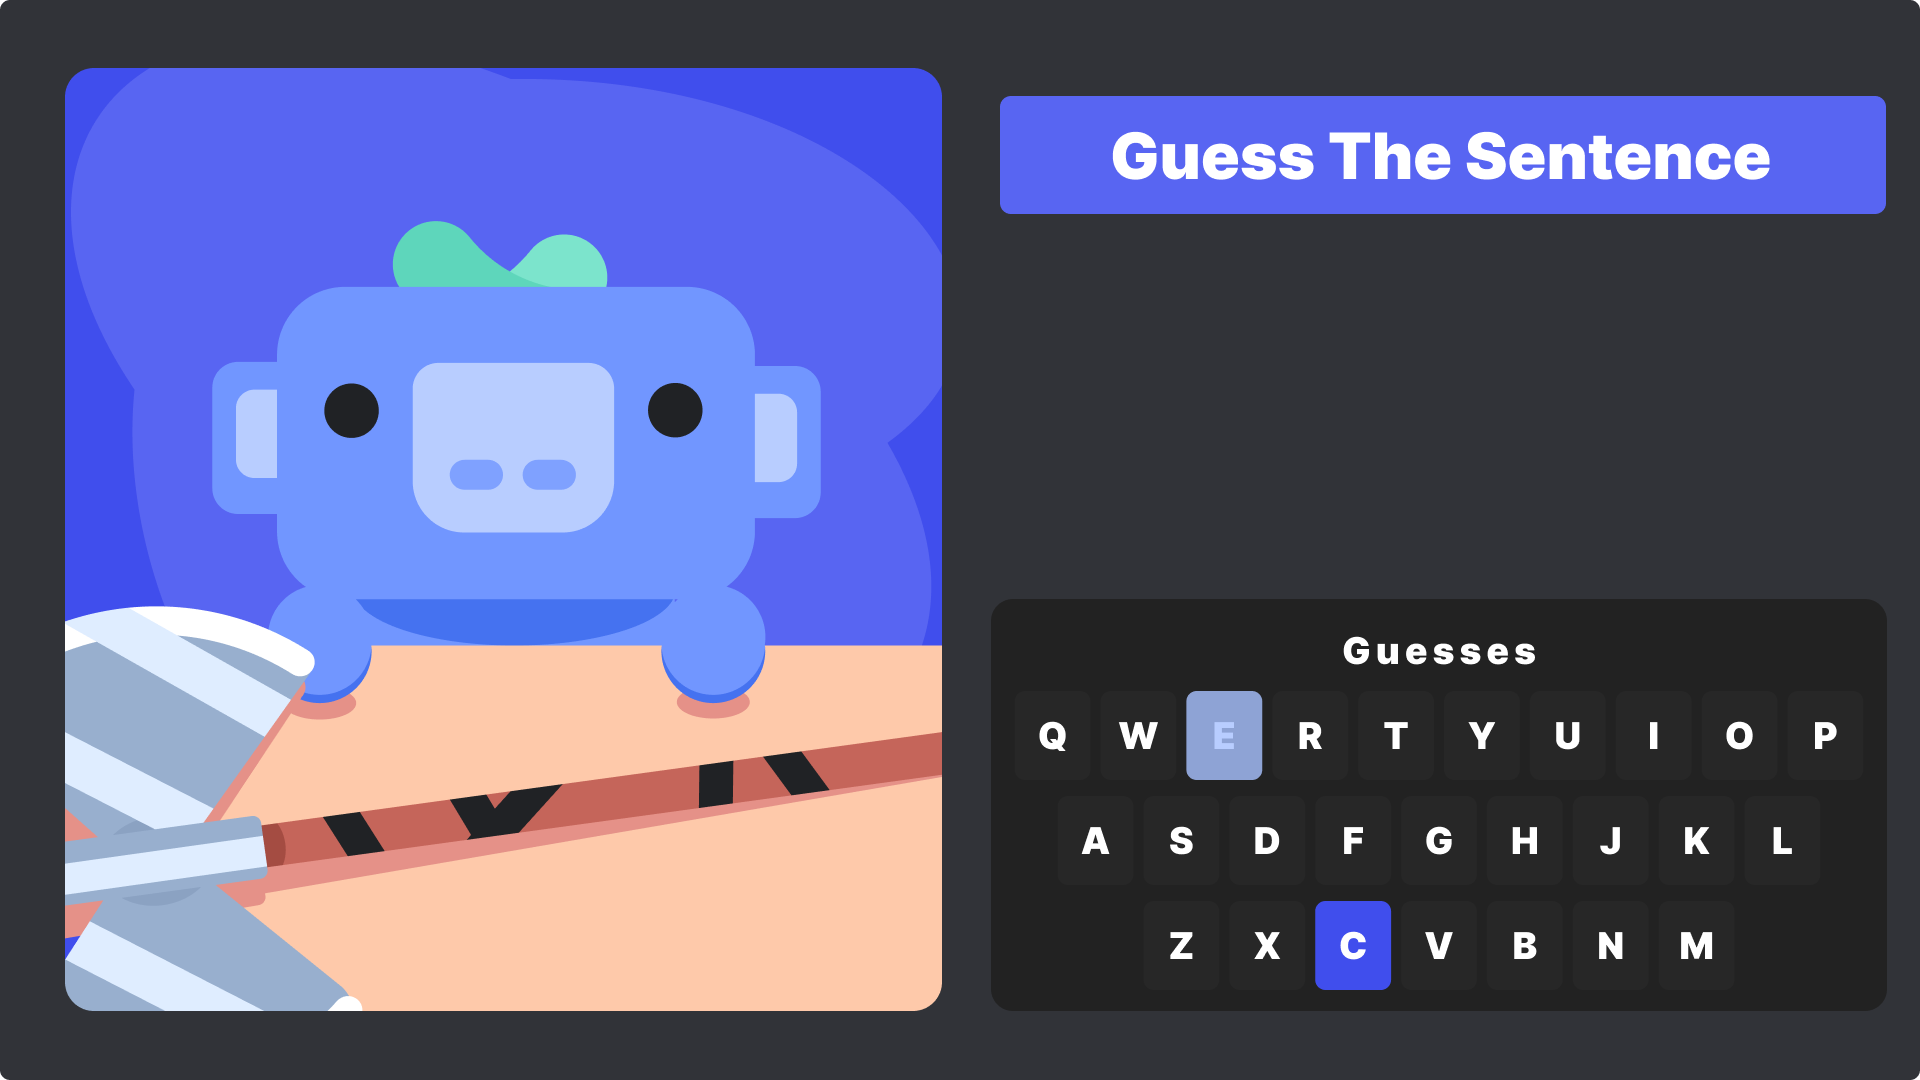
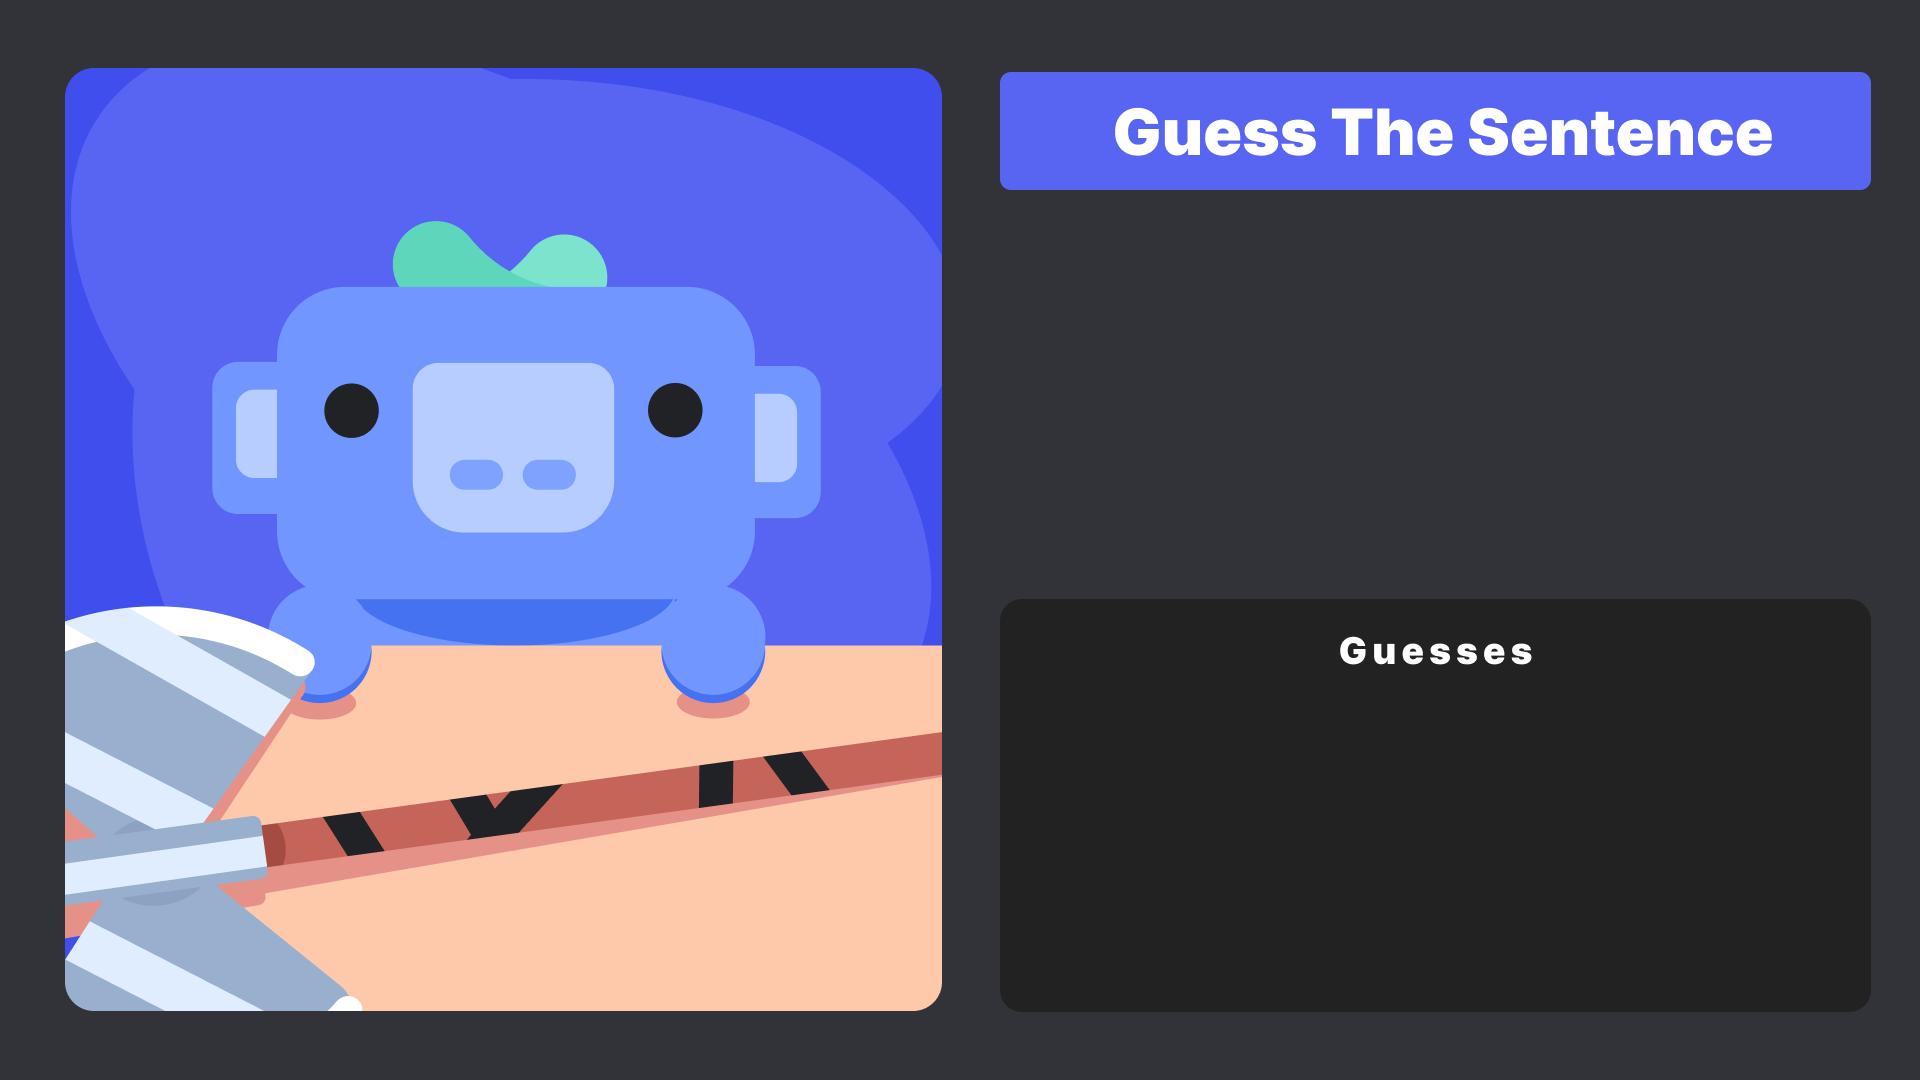
feat: add functionality for drawKeyboard. Updated phase 0 background image

diff --git a/src/utils/drawKeyBoard.ts b/src/utils/drawKeyBoard.ts
@@ -1,3 +1,90 @@
-export default function drawKeyBoard(right: string[], wrong: string[]){
+import Canvas from '@napi-rs/canvas'
 
+const KEY_ASPECT_RATIO = 90/76
+const MAX_KEYS_PER_ROW = 10
+const ROWS = [
+    'QWERTYUIOP',
+    'ASDFGHJKL',
+    'ZXCVVBNM'
+]
+const GAP = 10 //Pixels
+
+
+const NEUTRAL_COLOR_PALETTE = {color:"white", background: "#272727"}
+const RIGHT_COLOR_PALETTE = {color:"white", background: "#404EED"}
+const WRONG_COLOR_PALETTE = {color:"#B8CDFF", background: "#8EA3D5"}
+
+export default function drawKeyBoard(context: Canvas.SKRSContext2D, right: string[], wrong: string[], x: number, y: number, width: number, height: number){
+
+
+    const key_width = (width - GAP * (MAX_KEYS_PER_ROW - 1))/MAX_KEYS_PER_ROW
+    const key_height = key_width * KEY_ASPECT_RATIO
+
+    //Draw Rows
+    for (let i = 0; i < ROWS.length; i++){
+        const row_chars = ROWS[i].split('') 
+        const x_offset = (width - (row_chars.length * (key_width + GAP) - GAP))/2
+        for (let j = 0; j < row_chars.length; j++){
+            const char = row_chars[j]
+            const key_x = x + x_offset + (key_width + GAP) * j
+            const key_y = y + (key_height + GAP) * i
+
+            let palette = NEUTRAL_COLOR_PALETTE
+            if (right.includes(char)) palette = RIGHT_COLOR_PALETTE
+            if (wrong.includes(char)) palette = WRONG_COLOR_PALETTE
+            drawKey(context, char,key_x,key_y,key_width,key_height,palette.color,palette.background)
+        }
+    }
+
+
+}
+
+
+
+
+
+const RECT_RADIUS = 10
+const FONT_SCALE = 0.4
+
+function drawKey(context: Canvas.SKRSContext2D, char: string, x: number, y: number, width: number, height: number, color: string, background: string){
+
+    //Draw Background Rectangle
+    const radius = RECT_RADIUS
+    
+    // -> Middle
+    context.fillStyle = background
+    context.fillRect(x + radius, y+ radius, width - radius * 2, height - radius * 2)
+    
+    // -> Top-Left Corner 
+    fillCircle(context,x + radius, y + radius, radius)
+
+    // -> Top-Right Corner 
+    fillCircle(context,x + width - radius, y + radius, radius)
+
+    // -> Bottom-Right Corner 
+    fillCircle(context,x + width - radius, y + height - radius, radius)
+
+    // -> Bottom-Left Corner 
+    fillCircle(context,x + radius, y + height - radius, radius)
+
+    // -> Horizontal Cross Arm
+    context.fillRect(x, y+ radius, width, height -  radius * 2)
+
+    // -> Vertical Cross Arm
+    context.fillRect(x + radius, y, width - radius * 2, height)
+    
+    //Draw Character In Space
+    context.fillStyle = color
+    context.font = `normal 900 ${height * FONT_SCALE}px Inter-Black`
+    context.textBaseline = 'middle'
+    context.textAlign = 'center'
+    context.fillText(char, x + width/2, y + height/2)
+}
+
+//Small Helper Function For Drawing Circles
+function fillCircle(context: Canvas.SKRSContext2D, x: number ,y: number, radius: number){
+    context.beginPath()
+    context.arc(x,y,radius, 0, 2 * Math.PI, false)
+    context.fill()
+    context.closePath()
 }

diff --git a/src/core/PNGFromGameState.ts b/src/core/PNGFromGameState.ts
@@ -7,10 +7,16 @@ import initializeGlobalFonts from '../utils/initializeGlobalFonts.js'
 const IMAGE_WIDTH = 1920
 const IMAGE_HEIGHT = 1080
 const PUZZLEBOARD_PARAMS = {
-    x: 1000,
+    x: 990,
     y: 250,
     width: 900,
     height: 320
+}
+const KEYBOARD_PARAMS = {
+    x: 1025,
+    y: 700,
+    width: 820,
+    height: 412
 }
 
 
@@ -43,7 +49,7 @@ export default async function PNGFromGameState(answer: string, guesses: string[]
     //Deduce which guesses are correct and incorrect
     const right_guesses = guesses.filter((char) => answer.includes(char))
     const wrong_guesses = guesses.filter((char) => !answer.includes(char))
-    drawKeyBoard(right_guesses, wrong_guesses)
+    drawKeyBoard(ctx,right_guesses, wrong_guesses,KEYBOARD_PARAMS.x,KEYBOARD_PARAMS.y,KEYBOARD_PARAMS.width,KEYBOARD_PARAMS.height)
 
     return await canvas.encode('png')
 
